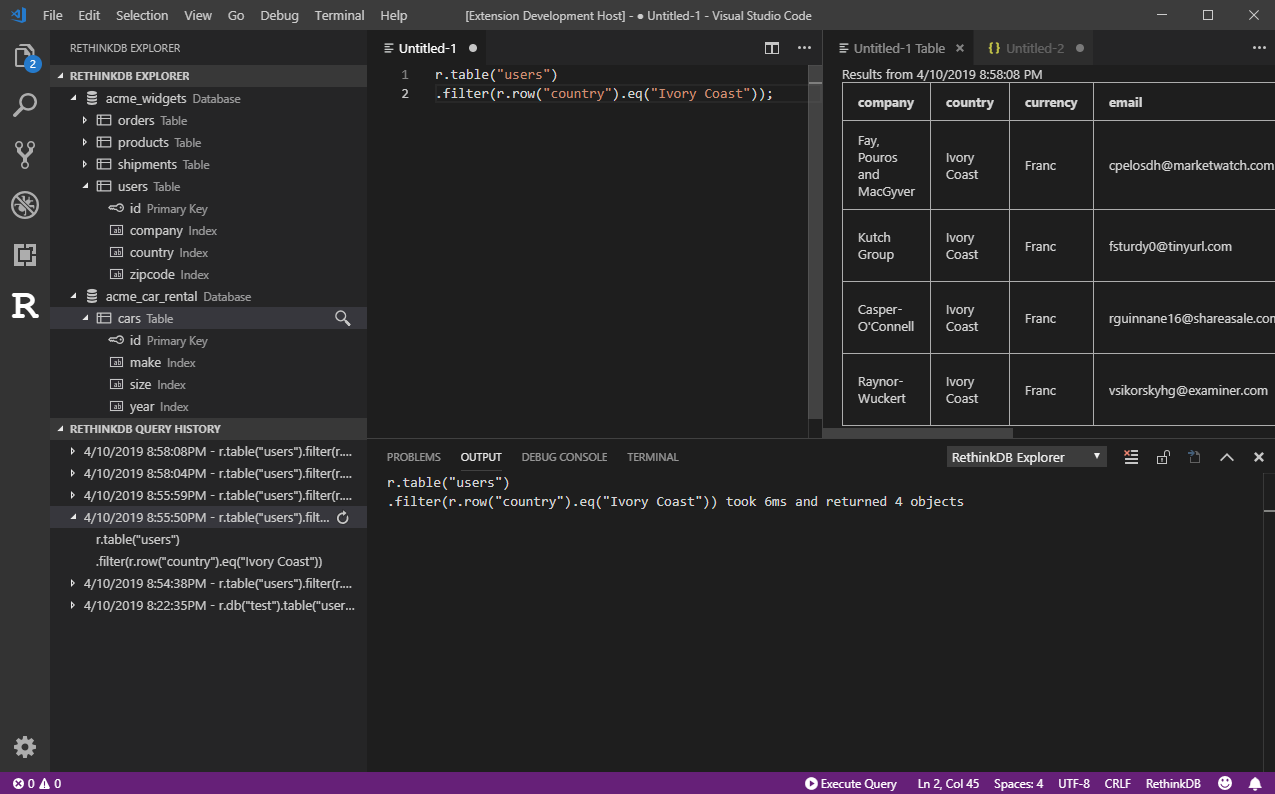
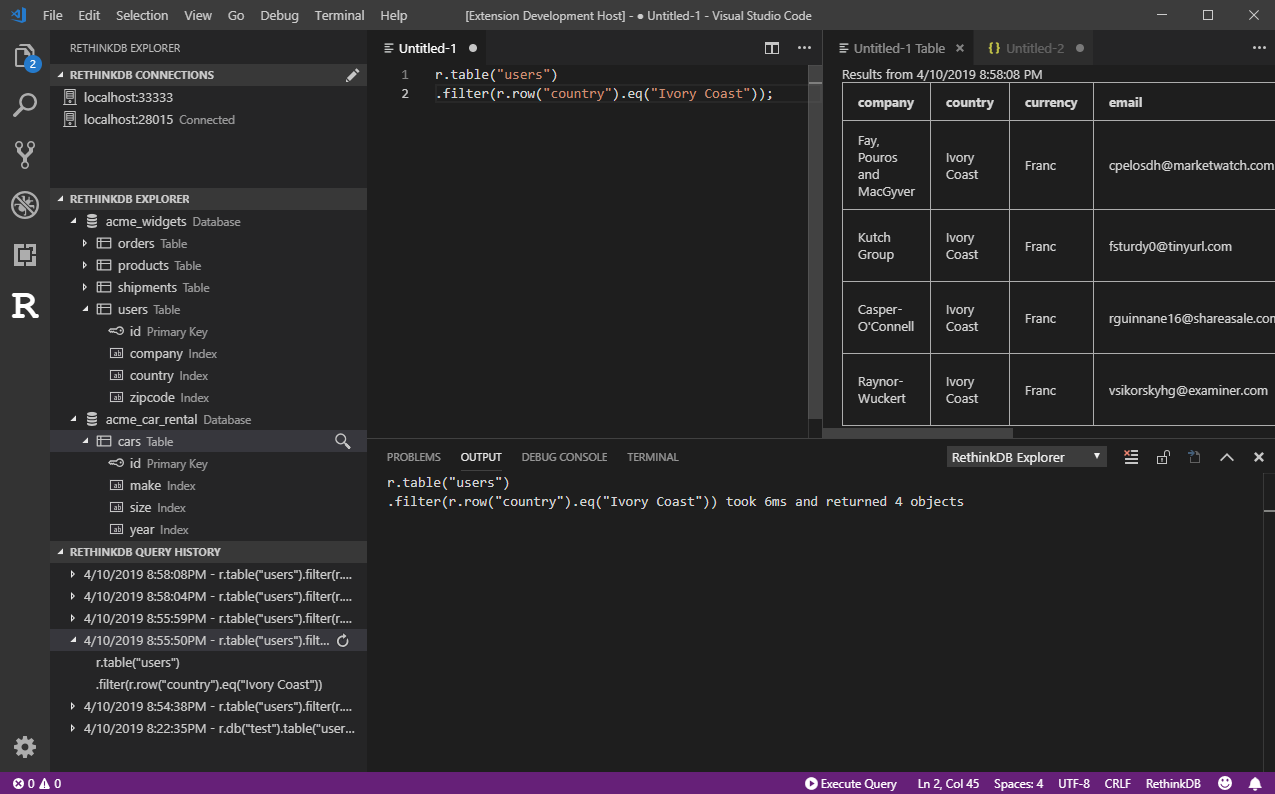
Updating version and readme

Changed region(s): [[0.0306, 0.0907, 0.2753, 0.937]]

diff --git a/README.md b/README.md
@@ -10,6 +10,20 @@ An extension to allow you to query your RethinkDB server from right inside your 
 
 ![RethinkDB Explorer](extension.gif)
 
+## Instructions
+
+Set your default connection settings through the settings page. Once you are connected, all you have to do is change your document type to 'RethinkDB' and the 'Execute Query' button will appear.
+
+![Status Bar](statusbar.png)
+
+If you wish to add more than one connection, click on the pencil icon. This will open the settings.json file and add a template configuration.
+
+![Add Connections](addConnections.png)
+
+To change connection, click on the connect icon next to the server.
+
+![Connect](connect.png)
+
 ## Extension Settings
 
 This extension is configured through the following settings:
@@ -21,6 +35,7 @@ This extension is configured through the following settings:
 - `rethinkdbExplorer.password`: Password to use when connecting to the RethinkDB server.
 - `rethinkdbExplorer.tls`: Connect to RethinkDB over a tls connection. Defaults to `false`.
 - `rethinkdbExplorer.maxHistory`: How many previous queries to save. Defaults to `50`.
+- `rethinkdbExplorer.supplementalConnections`: An array of other connections to use.
 
 ## Release Notes
 
@@ -37,3 +52,7 @@ Initial release
 
 - Improved database viewer
 - Added more output for connection failures
+
+## 1.0.3
+
+- Added support for multiple servers

diff --git a/CHANGELOG.md b/CHANGELOG.md
@@ -13,3 +13,7 @@
 
 - Improved database viewer
 - Added more output for connection failures
+
+## [1.0.3]
+
+- Added support for multiple servers
